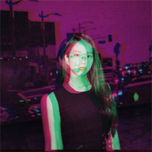
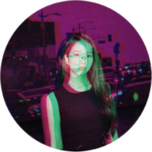
change to circle

diff --git a/index.html b/index.html
@@ -85,7 +85,7 @@ document.addEventListener("contextmenu", function(e){
       <a href="https://instagram.com/rnldch" rel="noreferrer" target="_blank"><i class="fab fa-instagram"></i></a>
       <a href="https://t.me/rnldch" rel="noreferrer" target="_blank"><i class="fab fa-telegram"></i></a>
       <a href="https://github.com/rnldch" rel="noreferrer" target="_blank"><i class="fab fa-github"></i></a>
-      <a href="https://del.dog/aux" rel="noreferrer" target="_blank"><i class="fab fa-discord"></i></a>
+      <a href="https://discord.gg/9BxZ4GT" rel="noreferrer" target="_blank"><i class="fab fa-discord"></i></a>
       <a href="spotify:user:ronaldi2110" rel="noreferrer" target="_blank"><i class="fab fa-spotify"></i></a>
     </div>
   </div>
